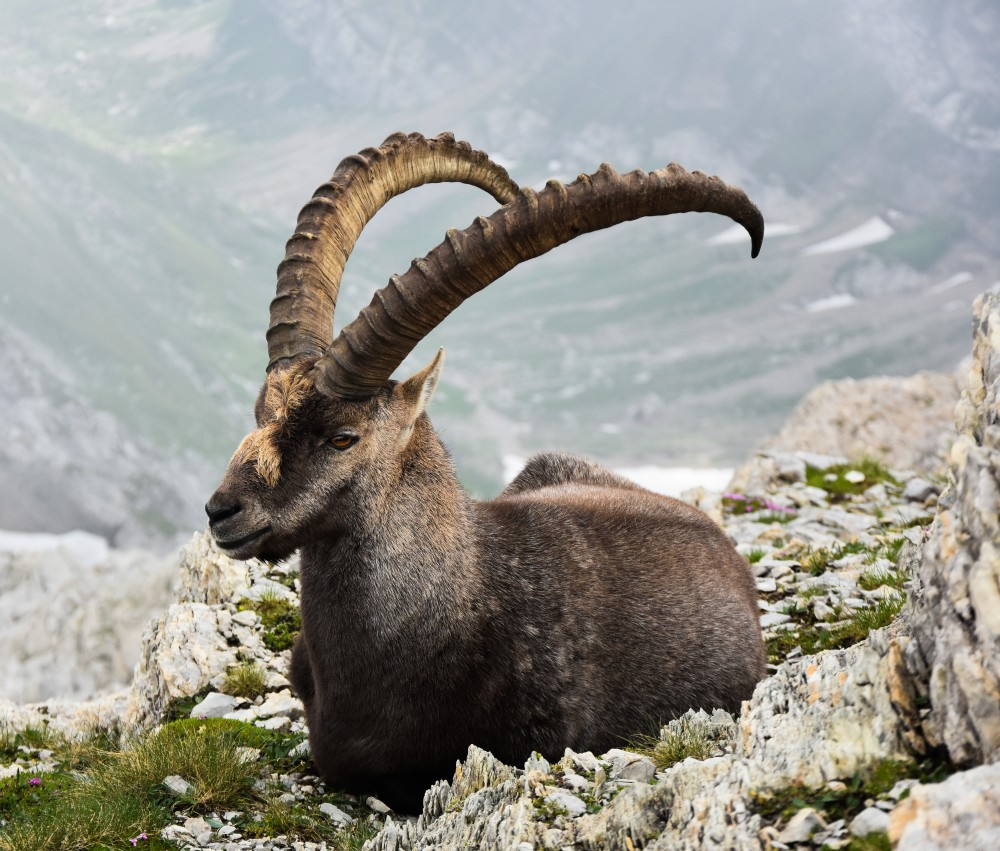
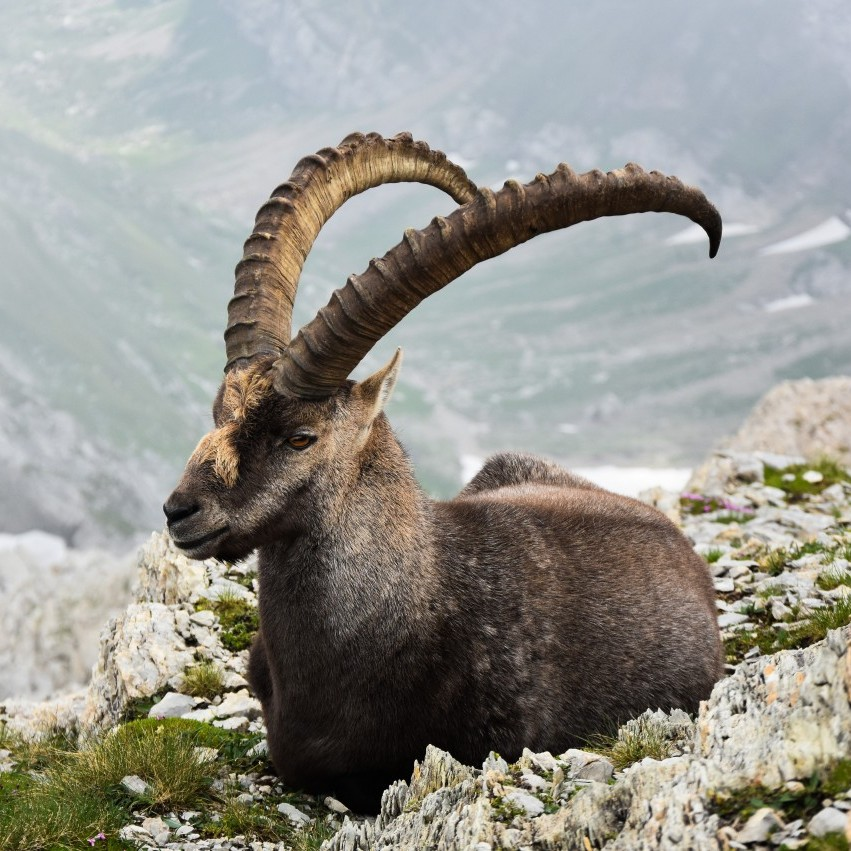
update-03

diff --git a/index.html b/index.html
@@ -10,16 +10,18 @@
   <script src="https://kit.fontawesome.com/bbd2f77825.js" crossorigin="anonymous"></script>
   <link rel="preconnect" href="https://fonts.googleapis.com">
   <link rel="preconnect" href="https://fonts.gstatic.com" crossorigin>
-  <link href="https://fonts.googleapis.com/css2?family=Josefin+Sans:wght@300;400;700&family=Roboto:wght@300;400;700;900&display=swap" rel="stylesheet"> 
+  <link href="https://fonts.googleapis.com/css2?family=Josefin+Sans:wght@300;400;500;600;700&family=Roboto:wght@300;400;500;600;700;900&display=swap" rel="stylesheet"> 
 </head>
 <body>
 <header>
   <section class="hero">
 
     <div class="nav-container">
+
       <div class="logo">
         <a href="#"><i class="fa-brands fa-pagelines"></i></a>
       </div>
+
       <nav class="nav-row">
         <ul>
           <li><a class="active" href="index.html">Home</a></li>
@@ -35,8 +37,58 @@
       <p class="hero-subtitle">Discover the beauty of mountains</p>
       <button class="hero-button" onclick="location.href='#'">Visit us!</button>
     </div>
+
   </section>
 </header>
+
+<main>
+  <div class="main-section">
+    <section class="what-to-see">
+      <h1>What to see</h1>
+      <p>Lorem ipsum dolor sit amet consectetur adipisicing elit. Alias distinctio impedit explicabo ducimus, illum iste hic, atque odio numquam sequi, iusto illo sint asperiores facilis? Velit recusandae adipisci fuga rerum, accusantium cumque.</p>
+      <br>
+      <p>Lorem ipsum dolor, sit amet consectetur adipisicing elit. Quis deserunt distinctio reiciendis consequuntur, nostrum aperiam. Ad, harum accusantium? Dolores accusamus enim et earum tempore vitae?</p>
+    </section>
+    <img src="/img/ibex.jpg" alt="an ibex with magnificent corns sitting on the rock in the mountains" class="ibex-img">
+    <section class="where-to-stay">
+      <h1>Where to stay</h1>
+      <p>Lorem ipsum dolor sit amet consectetur adipisicing elit. Tempora voluptatibus quam libero est dolores, ipsam ex magni. Nobis, laudantium. Nulla earum odit culpa magni alias dolor vero, sequi totam, minima, perferendis dignissimos.</p>
+      <br>
+      <p>Lorem ipsum dolor sit amet consectetur adipisicing elit. Aspernatur rem eligendi magnam. Eos amet dignissimos corrupti provident atque quo reprehenderit, unde ad necessitatibus ipsum. Quia, tenetur sit. Commodi.</p>
+    </section>
+    <img src="/img/rifugio.jpg" alt="a mountain hut with tourists around enjoying a sunny day" class="rifugio-img">
+    <section class="about-us">
+      <h1>About us</h1>
+      <p>Lorem ipsum, dolor sit amet consectetur adipisicing elit. Sed exercitationem maxime, magnam dignissimos quisquam molestias cum? Animi nihil, mollitia fuga consectetur beatae numquam accusamus quam et quibusdam quaerat voluptate id ipsum officia?</p>
+      <br>
+      <p>Lorem ipsum, dolor sit amet consectetur adipisicing elit. In esse nulla debitis magnam optio dolorum, voluptatibus cumque reiciendis cum neque reprehenderit temporibus voluptas, eaque rem molestiae.</p>
+    </section>
+    <img src="/img/photographer.jpg" alt="a photographer on the summit taking a photo of a mountain range" class="photographer-img">
+  </div>
+</main>
+
+<footer>
+  <div class="footer-section">
+    <section class="footer-email">
+      <form action="action-page.php">
+        <p>Get the latest news by signing up for our newsletter!</p><br>
+        <label for="email"></label>
+        <input type="text" id="email" name="email" placeholder="Enter your email address">
+        <input type="submit" value="Subscribe">
+      </form>
+
+    </section>
+    <section class="footer-social">Social</section>
+    <section class="footer-links">
+        <ul>
+          <li><a class="active" href="index.html">Home</a></li>
+          <li><a href="#">What to see</a></li>
+          <li><a href="#">Where to stay</a></li>
+          <li><a href="#">About us</a></li>
+        </ul>
+    </section>
+  </div>
+</footer>
 
 </body>
 </html>

diff --git a/css/main.css b/css/main.css
@@ -23,9 +23,13 @@ time, mark, audio, video {
 	font: inherit;
 	vertical-align: baseline;
   text-decoration: none;
-  color: #000;
 	box-sizing: border-box;
 	font-family: 'Roboto', sans-serif;
+	color: inherit;
+}
+
+.nav-container a {
+	color: #000;
 }
 /* HTML5 display-role reset for older browsers */
 article, aside, details, figcaption, figure, 
@@ -61,7 +65,7 @@ table {
 	height: 100vh;
 	display: grid;
 	grid-template-columns: repeat(16, 1fr);
-	grid-template-rows: 3em [menu-row] 10em [hero-content];
+	grid-template-rows: 3em [menu-row] 10em [empty] auto [hero-content];
 }
 
 .hero::before {
@@ -160,7 +164,7 @@ table {
 	letter-spacing: 0.1em;
 }
 
-@media (max-width: 1130px) {
+@media (max-width: 1020px) {
 	.hero-title {
 		font-size: 3em;
 	}
@@ -170,11 +174,12 @@ table {
 	.hero-button {
 		font-size: 0.8em;
 	}
-	.nav-row li:nth-of-type(-n+4) {
-		display: none;
+	.nav-row li {
+		/* display: none; */
+		text-align: right;
 	}
 	.nav-container {
-		grid-column: 2 / 16;
+		grid-column: 2 / 16 ;
 	}
 	.hero-content {
 		grid-column: 2 / 11;
@@ -200,3 +205,121 @@ table {
 	color: #a7171a;
 	background-color: #fff;
 }
+
+/* MAIN */
+
+.main-section {
+	/* position: relative; */
+	width: 100%;
+	/* height: 100vh; */
+	display: grid;
+	grid-template-columns: repeat(16, 1fr);
+	grid-template-rows: 1fr [what-to-see] auto [for-ibex] 1fr [where-to-stay] auto [for-rifugio] 1fr [about-us] auto [for-photographer];
+}
+
+.what-to-see {
+	grid-column: 5 / 9;
+	grid-row: 1;
+}
+
+.ibex-img {
+	grid-column: 9 / 13;
+	grid-row: 1;
+}
+
+.where-to-stay {
+	grid-column: 9 / 13;
+	grid-row: 3;
+}
+
+.rifugio-img {
+	grid-column: 5 / 9;
+	grid-row: 3;
+}
+
+.about-us {
+	grid-column: 5 / 9;
+	grid-row: 5;
+}
+
+.photographer-img {
+	grid-column: 9 / 13;
+	grid-row: 5;
+}
+
+.ibex-img,
+.rifugio-img,
+.photographer-img {
+	width: 100%;
+	border-radius: 50%;
+	padding: 2em;
+}
+
+.main-section h1 {
+	font-size: 2.5em;
+	font-weight: 600;
+	font-family: 'Josefin Sans', sans-serif;
+	padding: 0.5em 0 0.5em 0;
+}
+
+@media (max-width: 1020px) {
+	.what-to-see,
+	.where-to-stay,
+	.about-us {
+		grid-column: 2 / 16;
+	}
+	.ibex-img {
+		grid-column: 2 / 16;
+		grid-row: 2;
+		padding: 0;
+	}
+	.rifugio-img {
+		grid-column: 2 / 16;
+		grid-row: 4;
+		padding: 0;
+	}
+	.photographer-img {
+		grid-column: 2 / 16;
+		grid-row: 6;
+		padding: 0;
+	}
+}
+
+/* FOOTER */
+
+.footer-section {
+	background: #323232;
+	color: #fff;
+	width: 100%;
+	display: grid;
+	grid-template-columns: repeat(16, 1fr);
+	grid-template-rows: 2em [empty] auto [footer-content-1] auto [footer-content-1] auto [footer-content-1] 10em [empty];
+}
+
+.footer-email {
+	grid-column: 5 / 8;
+	grid-row: 2;
+}
+.footer-social {
+	grid-column: 9 / 11;
+	grid-row: 2;
+}
+.footer-links {
+	grid-column: 11 / 13;
+	grid-row: 2;
+}
+
+@media (max-width: 1020px) {
+	.footer-email,
+	.footer-social,
+	.footer-links {
+		grid-column: 2 / 16;
+	}
+	.footer-social {
+		grid-row: 3;
+	}
+	.footer-links {
+		grid-row: 4;
+	}
+}
+
